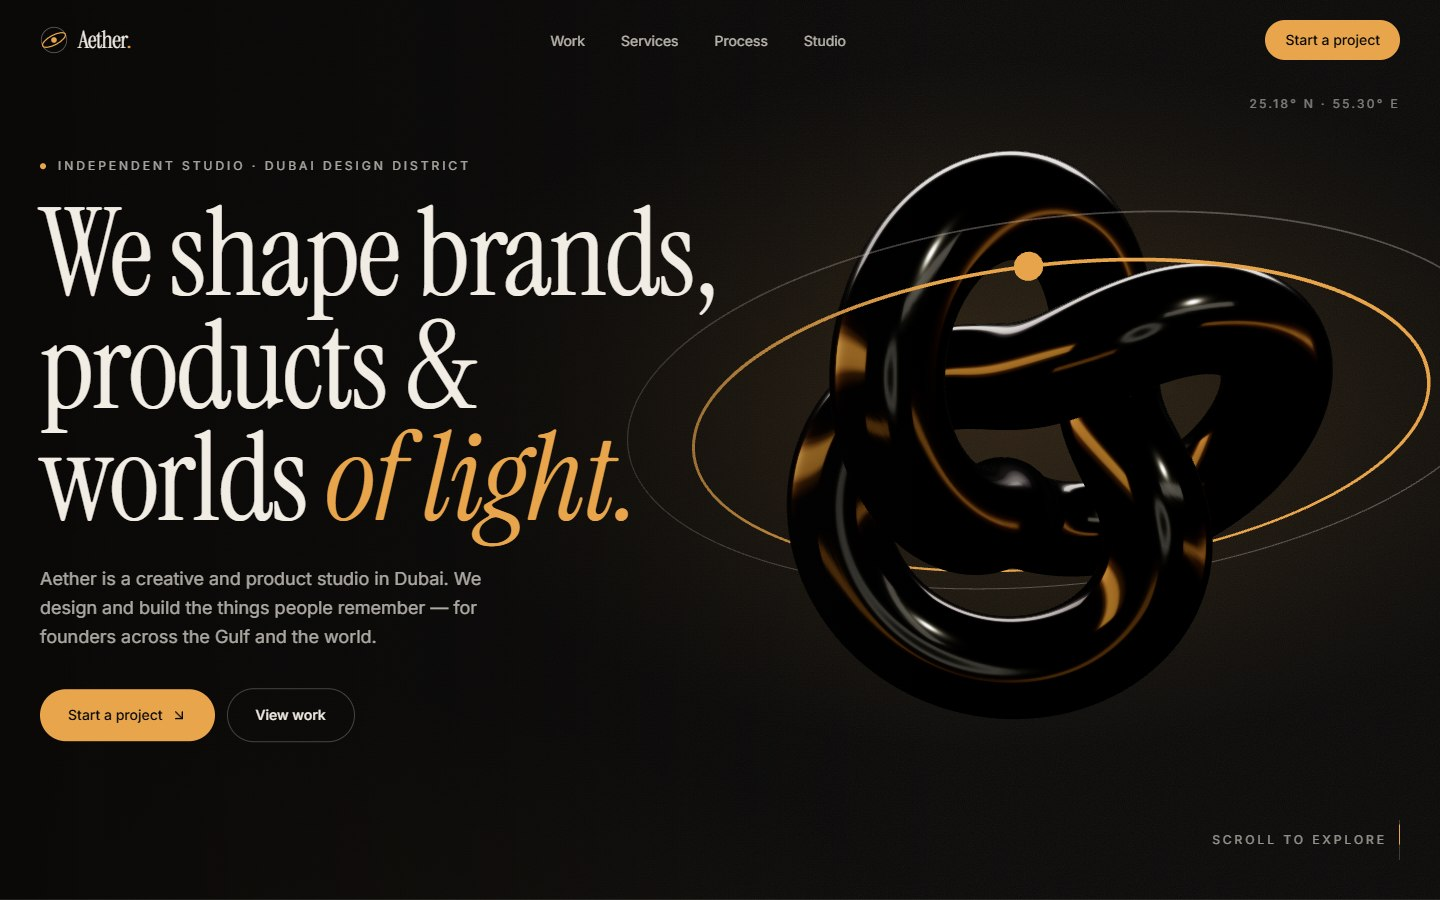
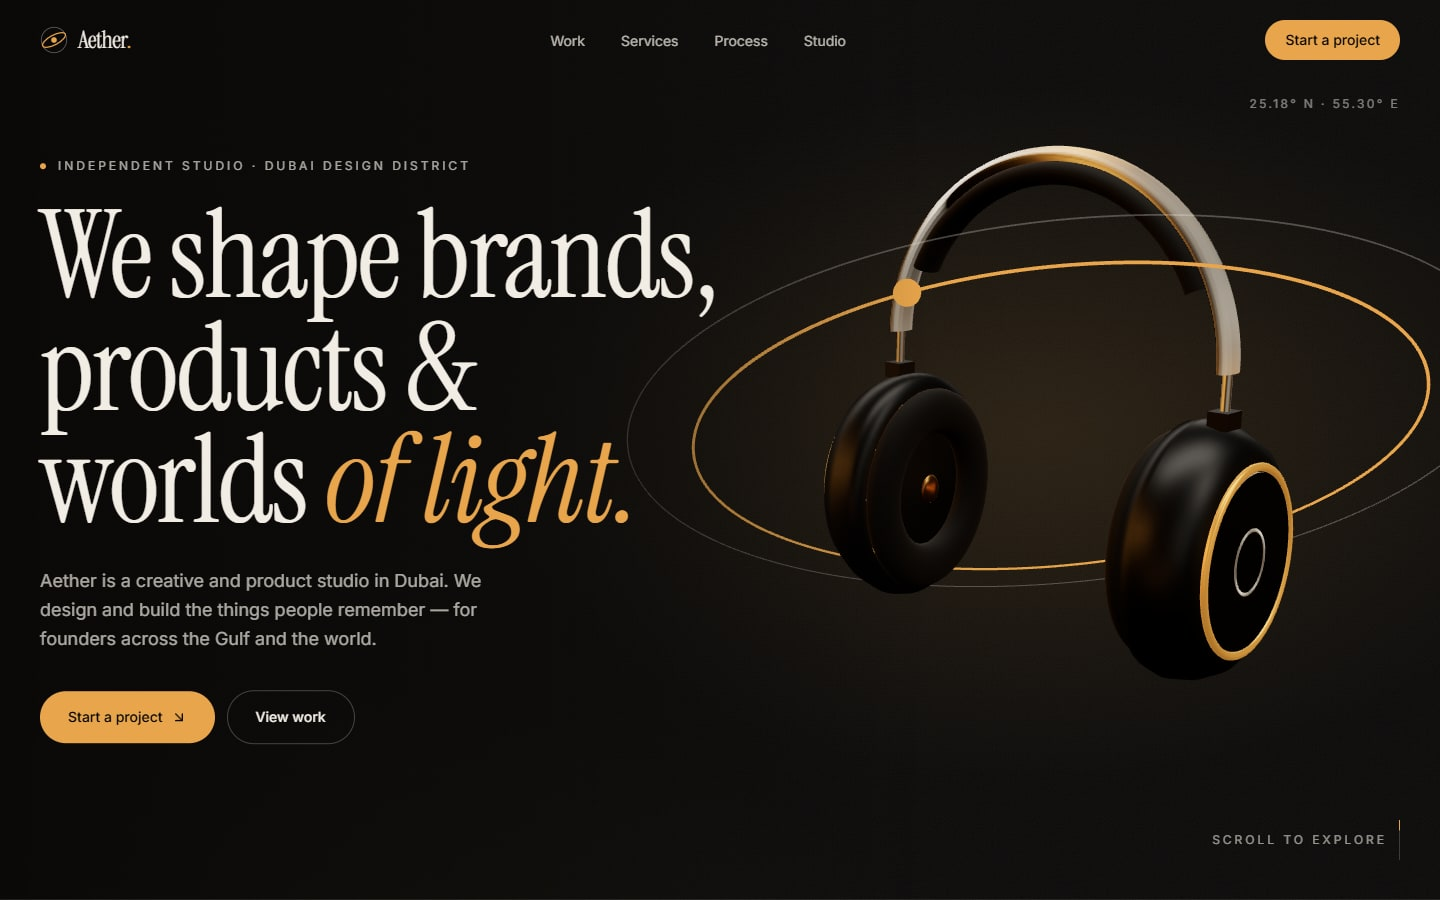
Update README and screenshots for the headphone hero

diff --git a/README.md b/README.md
@@ -1,28 +1,29 @@
 # Aether Studio
 
-A cinematic, scroll-driven website for Aether — a fictional creative and product studio headquartered in Dubai Design District. One sculpted object of light carries the story: it turns, drifts and re-frames itself as you scroll from manifesto to selected work to first contact.
+A cinematic, scroll-driven website for Aether — a fictional creative and product studio headquartered in Dubai Design District. A pair of premium over-ear headphones carries the story: it turns slowly as you scroll, opens into an exploded view of its parts, then reassembles and settles.
 
 **Live:** [studio.ahmadkhajeh.com](https://studio.ahmadkhajeh.com)
 
 Demo project by Ahmad Khajeh — [ahmadkhajeh.com](https://ahmadkhajeh.com)
 
-![Aether Studio hero with the real-time 3D sculpture](docs/screenshots/hero.jpg)
+![Aether Studio hero with real-time 3D headphones](docs/screenshots/hero.jpg)
 
 ## Highlights
 
-- **Scroll-driven 3D hero** — a real-time React Three Fiber sculpture whose position, rotation and camera are choreographed by scroll across three pinned, crossfading chapters.
+- **Scroll-driven 3D hero** — real-time React Three Fiber headphones, modelled entirely in code, with a brushed-steel band, matte cups, amber accent rings and studio reflections. Scroll choreographs a slow three-quarter turn, an exploded view and a final settle across three pinned, crossfading chapters.
+- **Exploded view with callouts** — ear cups, cushions, drivers and headband separate along their axes, each tracked by a thin amber label.
 - **A studio rooted in Dubai** — d3 headquarters, a DIFC client lounge, Gulf and global case studies, live Dubai time and pricing in AED with USD equivalents.
 - **Pinned horizontal work gallery** — six case studies glide sideways with image parallax, collapsing into a simple grid on phones.
 - **Buttery smooth scrolling** — Lenis and GSAP ScrollTrigger share a single ticker, so every animation stays in sync.
-- **Performance first** — the 3D canvas loads only after the page is interactive, adapts its resolution to the device, pauses off-screen and runs a lighter scene on mobile.
-- **Respectful motion** — with reduced motion enabled, the site swaps to a static, art-directed hero and native scrolling.
+- **Performance first** — a pre-rendered still paints instantly while the 3D scene loads in the background, then adapts its resolution to the device, pauses off-screen and runs a lighter scene on mobile.
+- **Respectful motion** — with reduced motion enabled, the site shows a still render of the headphones and uses native scrolling.
 - **Accessible and searchable** — keyboard-friendly navigation with visible focus, semantic landmarks, structured data, Open Graph images, sitemap and robots.
 - **Validated contact flow** — a typed form with inline errors, budget ranges in AED and a polished success state.
 
-![Pinned horizontal case-study gallery](docs/screenshots/work.jpg)
+![Exploded view of the headphones with amber callouts](docs/screenshots/exploded.jpg)
 
 <p align="center">
-  <img src="docs/screenshots/mobile.jpg" alt="Aether Studio on mobile with the lightweight 3D hero" width="320" />
+  <img src="docs/screenshots/mobile.jpg" alt="Aether Studio on mobile with the lightweight 3D headphones" width="320" />
 </p>
 
 ## Tech stack
